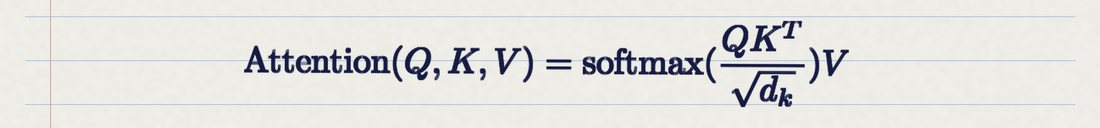
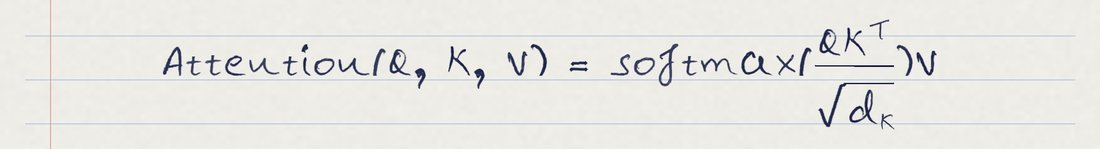
Landing: the attention equation written by hand; a visible black pen swatch
The evidence section showed the paper's typeset equation, which did not
look handwritten at all. It is now written in the captured hand, fraction
bar and root overbar drawn as pen lines in the same ink, on ruled paper.
make_landing_images.py composes it from the hand's own glyphs, since the
page writer sets lines rather than fractions, so it no longer needs
attention.pdf.

In dark mode the black swatch nearly vanished against the bar; its edge
is now stronger.

diff --git a/templates/landing.html b/templates/landing.html
@@ -318,9 +318,9 @@ same text, same hand, every time
 
           <figure class="eqcard rv">
             <img src="{{ url_for('static', filename='sample_eq.jpg') }}"
-                 alt="The attention equation traced in ink on ruled paper"
-                 width="1100" height="128" loading="lazy" />
-            <figcaption>An equation lifted from a real paper (Attention Is All You Need) and traced as ink</figcaption>
+                 alt="The attention equation, softmax of Q K transpose over root d k, times V, handwritten in ink on ruled paper"
+                 width="1100" height="149" loading="lazy" />
+            <figcaption>The attention equation from Attention Is All You Need, written out in the same captured hand</figcaption>
           </figure>
         </div>
 

diff --git a/static/studio.css b/static/studio.css
@@ -622,7 +622,7 @@ select.mini {
     --ring: oklch(0.93 0.006 90);
   }
   /* near-black pens on a dark bar need an edge to be seen at all */
-  .ink { box-shadow: inset 0 0 0 1px rgba(255, 255, 255, 0.28); }
+  .ink { box-shadow: inset 0 0 0 1.5px rgba(255, 255, 255, 0.5); }
   .ink.is-on { box-shadow: 0 0 0 2px var(--card), 0 0 0 4px rgba(255, 255, 255, 0.85); }
   .page { box-shadow: 0 24px 60px rgba(0, 0, 0, 0.5), 0 4px 12px rgba(0, 0, 0, 0.35); }
 }

diff --git a/tools/make_landing_images.py b/tools/make_landing_images.py
@@ -9,8 +9,8 @@ text and fixed seeds, through the same /api/render the studio uses:
 
   static/sample_letter.jpg   the hero: a short letter on ruled paper
   static/sample_page.jpg     the showcase: a page of study notes
-  static/sample_eq.jpg       display equations traced from a real paper
-                             (needs attention.pdf; kept as is without it)
+  static/sample_eq.jpg       the attention equation written out in the hand,
+                             fraction and root included
   static/og.jpg              the 1200x630 picture shown when the link is shared
 
 The paper grain is random on every run; the writing is not.
@@ -19,6 +19,7 @@ from __future__ import annotations
 
 import io
 import os
+import random
 import sys
 import tempfile
 import time
@@ -113,21 +114,105 @@ def crop_to_writing(page: Image.Image, keep_below: int = 0, pad: int = 70) -> Im
     return page.crop((0, max(0, y0 - pad), page.width, min(page.height, max(y1, keep_below) + pad)))
 
 
-def equations() -> Image.Image | None:
-    """Display equations from a real paper, traced as ink, or None without it."""
-    import converters
+def written_equation() -> Image.Image:
+    """The attention equation written in the captured hand, on ruled paper.
 
-    paper = Path.home() / "Downloads" / "attention.pdf"
-    if not paper.exists():
-        return None
-    assets = app.ASSET_ROOT / "eq_landing"
-    result = converters.to_markdown(str(paper), "pymupdf", "4", assets_dir=str(assets),
-                                    asset_ref="eq_landing")
-    images = [line for line in result.markdown.splitlines() if line.startswith("![")]
-    if not images:
-        return None
-    page = render("\n\n".join(images[:2]), 7, markdown=True, skew=False)
-    return crop_to_writing(page, pad=50)
+    The page writer sets text in lines, not fractions, so this one picture is
+    composed from the hand's own glyphs: the fraction bar and the root's
+    overbar are pen lines in the same ink, and nothing is typeset.
+    """
+    import render_core
+    import text_to_handwriting as t2h
+
+    render_core.apply_options(paper="ruled", ink="blue-black", texture=True, skew=False)
+    t2h.derive_metrics()
+    rng = random.Random(1706)
+    random.seed(1706)
+    pages: list[Image.Image] = []
+    sheet = t2h.Sheet(on_page=lambda n, page: pages.append(page))   # opens its first page
+
+    S = 1.3                                  # a showcase: written a little large
+    X = round(t2h.X_HEIGHT * S)
+    gap = round(X * 0.12)
+
+    def glyph(ch: str, scale: float = 1.0) -> Image.Image:
+        g = rng.choice(t2h.glyph_variants(ch))
+        return t2h.jittered(g, scale * S)
+
+    def run(text: str, scale: float = 1.0) -> list:
+        """(image, dx, dy-from-baseline) for each glyph, and the run's width."""
+        out, x = [], 0
+        for ch in text:
+            if ch == " ":
+                x += round(t2h.SPACE_WIDTH * S * scale * 0.7)
+                continue
+            g = glyph(ch, scale)
+            if ch in t2h.CENTERED:
+                dy = -round(X * scale / 2) - g.height // 2
+            else:
+                dy = -g.height + t2h._drop_below_line(ch, g.height)
+            out.append((g, x, dy))
+            x += g.width + round(gap * scale)
+        return out, x - round(gap * scale)
+
+    def stamp(pieces: list, x0: int, base: int) -> None:
+        for g, dx, dy in pieces:
+            sheet._stamp(g, x0 + dx, base + dy, rng.uniform(0.86, 1.0))
+
+    def pen(points: list) -> None:
+        wob = [(x, y + rng.uniform(-1.5, 1.5)) for x, y in points]
+        sheet._line(wob, max(3, round(X * 0.075)))
+
+    left, wl = run("Attention(Q, K, V) = softmax(")
+    num, wn = run("QK")
+    sup, ws = run("T", 0.62)
+    root = glyph("\u221a")
+    den_d, wd = run("d")
+    sub, wk = run("k", 0.62)
+    right, wr = run(")V")
+
+    num_w = wn + gap + ws
+    den_w = root.width + gap + wd + gap + wk
+    frac_w = max(num_w, den_w) + 2 * gap
+    total = wl + gap + frac_w + gap + wr
+    x = (sheet.width - total) // 2
+
+    base = t2h.MARGIN_T + 4 * t2h.LINE_HEIGHT          # on a ruled line, with room above
+    axis = base - X // 2                               # where = and the bar sit
+    stamp(left, x, base)
+    x += wl + gap
+
+    # numerator, over the bar, with T raised
+    nx = x + (frac_w - num_w) // 2
+    nbase = axis - round(X * 0.5)
+    stamp(num, nx, nbase)
+    cap = max(g.height for g, _, _ in num)
+    stamp(sup, nx + wn + gap, nbase - round(cap * 0.55))
+    # the bar
+    pen([(x, axis), (x + frac_w // 2, axis + 1), (x + frac_w, axis)])
+    # denominator: the root, then d with k lowered, and the root's overbar
+    dx = x + (frac_w - den_w) // 2
+    # the root's overbar keeps clear of the fraction bar above it
+    dtall = max(g.height for g, _, _ in den_d)
+    rh = dtall + round(X * 0.45)
+    top = axis + round(X * 0.8)
+    dbase = top + rh - round(X * 0.12)
+    root = root.resize((max(1, round(root.width * rh / root.height)), rh), Image.LANCZOS)
+    sheet._stamp(root, dx, top, 0.95)
+    rx = dx + root.width - round(root.width * 0.08)
+    stamp(den_d, rx + gap, dbase)
+    stamp(sub, rx + gap + wd + gap, dbase + round(X * 0.25))
+    pen([(rx - 2, top + 2), (dx + den_w + gap, top + 2)])
+    x += frac_w + gap
+    stamp(right, x, base)
+
+    sheet.finish()
+    page = pages[-1].convert("RGB")
+    # the strip of page the equation is written on, with a little paper
+    # above and below it
+    ink = ImageOps.invert(page.convert("L")).point(lambda v: 255 if v > 150 else 0).getbbox()
+    pad = round(0.45 * t2h.LINE_HEIGHT)
+    return page.crop((0, max(0, ink[1] - pad), page.width, min(page.height, ink[3] + pad)))
 
 
 def main() -> None:
@@ -138,11 +223,7 @@ def main() -> None:
     notes = render(NOTES, 4242, markdown=True, paper="ruled", ink="blue-black")
     save_jpeg(notes, "sample_page.jpg", 1100)
 
-    eq = equations()
-    if eq is not None:
-        save_jpeg(eq, "sample_eq.jpg", 1100)
-    else:
-        print("  sample_eq.jpg: kept (attention.pdf not found in Downloads)")
+    save_jpeg(written_equation(), "sample_eq.jpg", 1100)
 
     # the shared-link picture: the top of the letter, on its own paper
     top = letter.crop((0, 0, letter.width, round(letter.width * 630 / 1200)))
